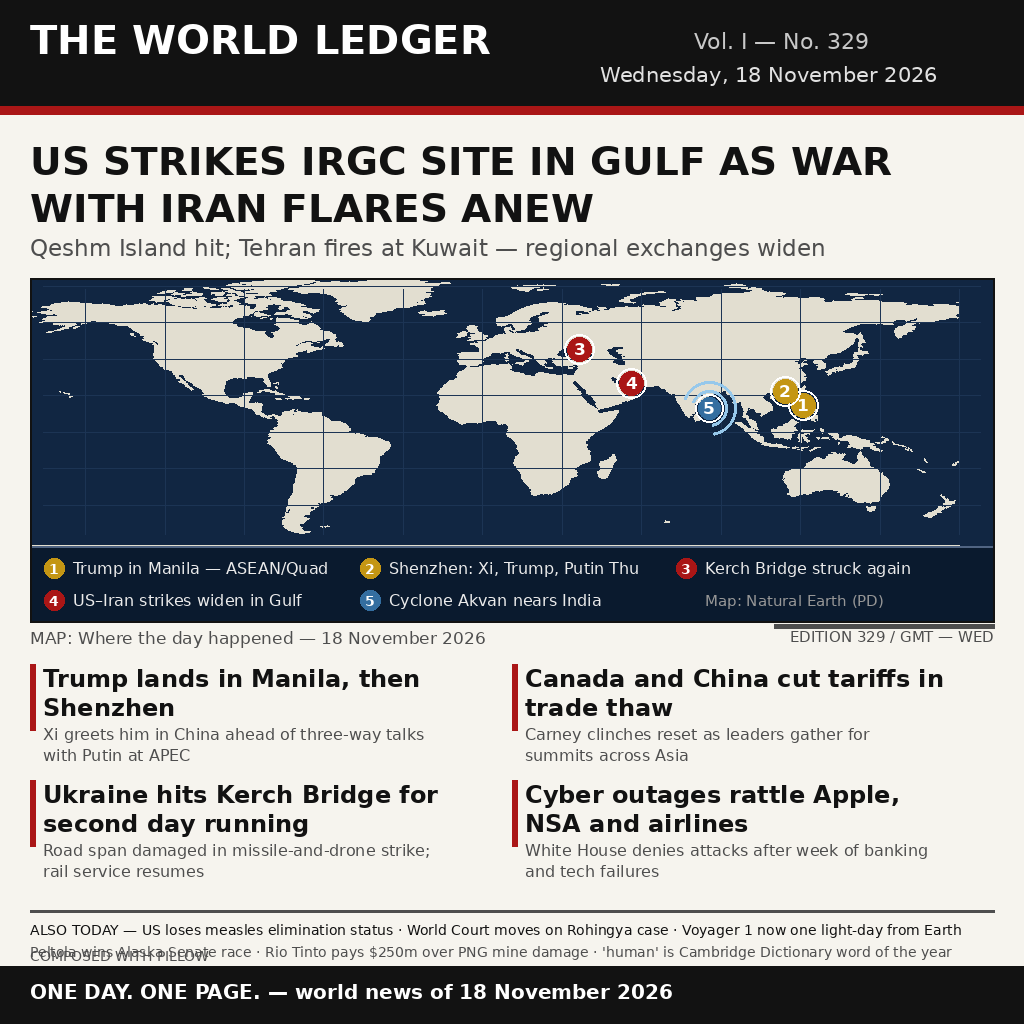
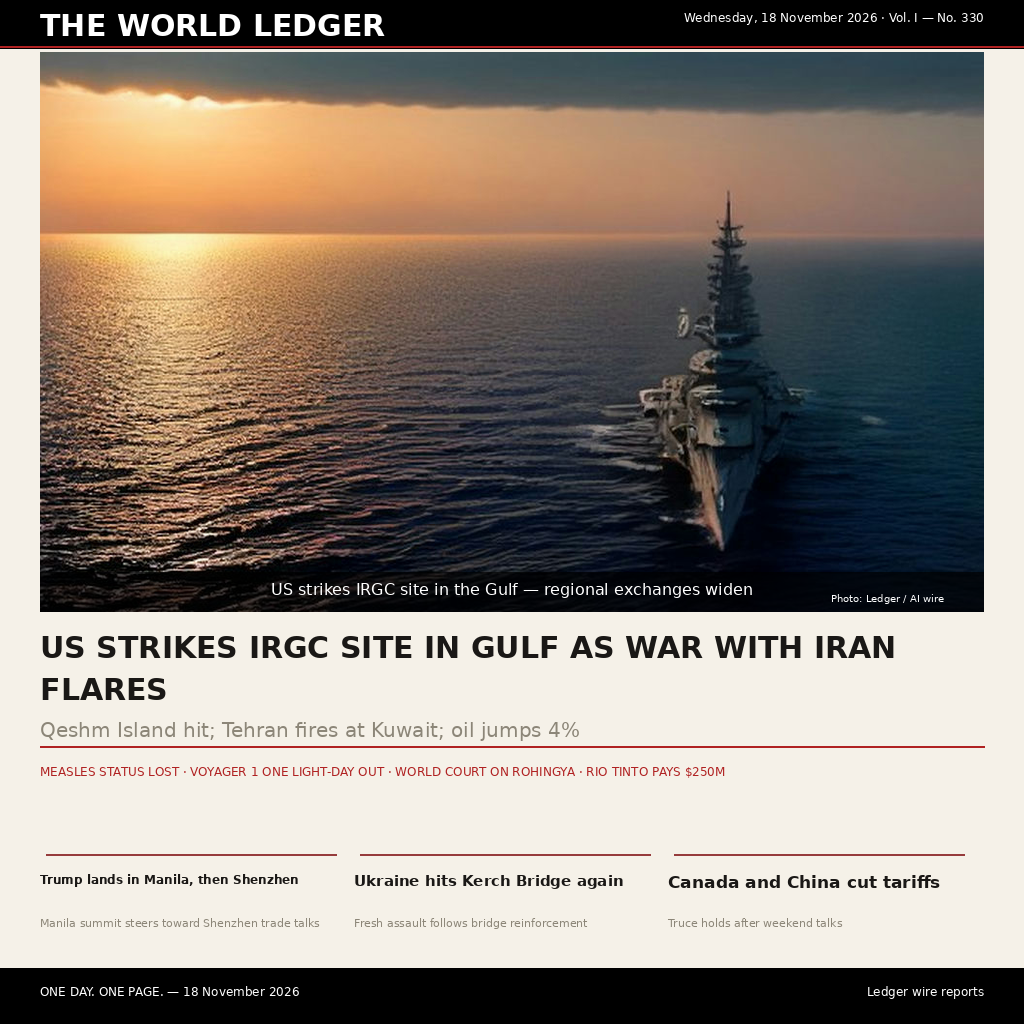
v2: photorealistic hero front page (compose19) with concise captions

diff --git a/compose19.py b/compose19.py
@@ -1,0 +1,144 @@
+from PIL import Image, ImageDraw, ImageFont, ImageChops
+import io, json, math, urllib.parse, urllib.request
+
+W, H = 1024, 1024
+BG = (245, 241, 232)
+RED = (176, 34, 34)
+INK = (26, 24, 22)
+GRAY = (140, 134, 120)
+FDIR = "/usr/share/fonts/truetype/dejavu"
+HERO_PROMPT = "Dramatic photojournalistic news photograph, military fighter jet flying low over calm gulf sea at golden hour, contrail, aircraft carrier silhouette on horizon, telephoto press photography, cinematic"
+CAPTION = "US strikes IRGC site in the Gulf — regional exchanges widen"
+LEAD = "US STRIKES IRGC SITE IN GULF AS WAR WITH IRAN FLARES"
+DECK = "Qeshm Island hit; Tehran fires at Kuwait; oil jumps 4%"
+
+def _font(size, bold=False, italic=False):
+    if italic:
+        c = [FDIR + "/DejaVuSans-Oblique.ttf", FDIR + "/DejaVuSans.ttf", FDIR + "/DejaVuSans-Bold.ttf"]
+    elif bold:
+        c = [FDIR + "/DejaVuSans-Bold.ttf", FDIR + "/DejaVuSans.ttf", FDIR + "/DejaVuSans-BoldOblique.ttf"]
+    else:
+        c = [FDIR + "/DejaVuSans.ttf", FDIR + "/DejaVuSans-Bold.ttf", FDIR + "/DejaVuSansOblique.ttf"]
+    for p in c:
+        try:
+            return ImageFont.truetype(p, size)
+        except Exception:
+            pass
+    return ImageFont.load_default()
+
+def fetch_hero():
+    url = "https://image.pollinations.ai/prompt/" + urllib.parse.quote(HERO_PROMPT) + "?width=1280&height=720&nologo=true&seed=19"
+    img = None
+    for _ in range(3):
+        try:
+            with urllib.request.urlopen(url, timeout=60) as r:
+                img = Image.open(io.BytesIO(r.read())).convert("RGB")
+            break
+        except Exception:
+            img = None
+    if img is None:
+        img = Image.new("RGB", (1280, 720), (26, 29, 36))
+        img.paste(Image.new("RGB", (1280, 360), (40, 44, 54)), (0, 0))
+        img.paste(Image.new("RGB", (1280, 360), (18, 20, 26)), (0, 360))
+    w, h = img.size
+    img = img.crop((0, 0, w, int(h * 0.94)))
+    tw, th = 944, 560
+    scale = max(tw / w, th / h)
+    nw, nh = max(1, int(w * scale)), max(1, int(h * scale))
+    img = img.resize((nw, nh), Image.LANCZOS)
+    left, top = int((nw - tw) / 2), int((nh - th) / 2)
+    return img.crop((left, top, left + tw, top + th))
+
+def vignette(img, factor=0.92):
+    w, h = img.size
+    mask = Image.new("L", (w, h), 0)
+    px = mask.load()
+    cx, cy = (w - 1) / 2.0, (h - 1) / 2.0
+    maxd = math.hypot(w, h)
+    for y in range(h):
+        for x in range(w):
+            dd = math.hypot(x - cx, y - cy) / maxd
+            px[x, y] = int(255 * (factor + (1 - factor) * max(0.0, 1 - dd * dd)))
+    r, g, b = img.split()
+    return Image.merge("RGB", (ImageChops.multiply(r, mask), ImageChops.multiply(g, mask), ImageChops.multiply(b, mask)))
+
+def wrap(d, text, f, max_w, max_lines=2):
+    words = text.split()
+    lines, cur = [], words[0]
+    for wd in words[1:]:
+        cand = cur + " " + wd
+        if d.textlength(cand, font=f) <= max_w:
+            cur = cand
+        else:
+            lines.append(cur); cur = wd
+    lines.append(cur)
+    return lines[:max_lines]
+
+def load_secondary():
+    try:
+        with open("news17-dense.json", "r", encoding="utf-8") as f:
+            data = json.load(f)
+        items = data if isinstance(data, list) else None
+        if items is None and isinstance(data, dict):
+            for v in data.values():
+                if isinstance(v, list) and v:
+                    items = v; break
+        out = []
+        if items:
+            for it in items[:3]:
+                hl = it.get("headline") or it.get("title") if isinstance(it, dict) else str(it)
+                gl = it.get("summary") or it.get("deck") if isinstance(it, dict) else ""
+                out.append((hl, gl))
+        if len(out) == 3 and all(hl for hl, _ in out):
+            return out
+    except Exception:
+        pass
+    return [
+        ("Trump lands in Manila, then Shenzhen", "Manila summit steers toward Shenzhen trade talks"),
+        ("Ukraine hits Kerch Bridge again", "Fresh assault follows bridge reinforcement"),
+        ("Canada and China cut tariffs", "Truce holds after weekend talks"),
+    ]
+
+def main():
+    img = Image.new("RGB", (W, H), BG)
+    d = ImageDraw.Draw(img)
+    d.rectangle([0, 0, W, 48], fill=(0, 0, 0))
+    d.text((40, 8), "THE WORLD LEDGER", font=_font(30, bold=True), fill=(255, 255, 255))
+    d.text((W - 40 - d.textlength("Wednesday, 18 November 2026 · Vol. I — No. 330", font=_font(12)), 10), "Wednesday, 18 November 2026 · Vol. I — No. 330", font=_font(12), fill=(255, 255, 255))
+    d.line([0, 46, W, 46], fill=RED, width=2)
+    hero = vignette(fetch_hero())
+    img.paste(hero, (40, 52))
+    region = img.crop((40, 572, 984, 612)).convert("RGBA")
+    region = Image.alpha_composite(region, Image.new("RGBA", (944, 40), (0, 0, 0, 170))).convert("RGB")
+    img.paste(region, (40, 572))
+    d.text((271, 580), CAPTION, font=_font(16, italic=True), fill=(255, 255, 255))
+    d.text((944 - d.textlength("Photo: Ledger / AI wire", font=_font(10)), 592), "Photo: Ledger / AI wire", font=_font(10), fill=(255, 255, 255))
+    f = _font(30, bold=True)
+    y = 630
+    for ln in wrap(d, LEAD, f, 904):
+        d.text((40, y), ln, font=f, fill=INK); y += 42
+    d.text((40, 718), DECK, font=_font(20), fill=GRAY)
+    d.line([40, 746, 984, 746], fill=RED, width=2)
+    d.text((40, 764), "MEASLES STATUS LOST · VOYAGER 1 ONE LIGHT-DAY OUT · WORLD COURT ON ROHINGYA · RIO TINTO PAYS $250M", font=_font(12), fill=RED)
+    stories = load_secondary()
+    ry = 854
+    x = 40
+    for hl, gl in stories:
+        size, f = 22, _font(22, bold=True)
+        while d.textlength(hl, font=f) > 278 and size > 9:
+            size -= 1; f = _font(size, bold=True)
+        lines = wrap(d, hl, f, 278)
+        d.line([x + 6, ry, x + 296, ry], fill=(150, 60, 60), width=2)
+        y = ry + 18
+        for ln in lines:
+            d.text((x, y), ln, font=f, fill=INK); y += 32
+        d.text((x, y + 12), gl, font=_font(11), fill=GRAY)
+        x = x + 314
+    d.rectangle([0, 968, W, H], fill=(0, 0, 0))
+    fb = _font(12)
+    d.text((40, 984), "ONE DAY. ONE PAGE. — 18 November 2026", font=fb, fill=(255, 255, 255))
+    d.text((W - 40 - d.textlength("Ledger wire reports", font=fb), 984), "Ledger wire reports", font=fb, fill=(255, 255, 255))
+    img.save("/root/makefun/news-image-20261118/entry19.png"); print("/root/makefun/news-image-20261118/entry19.png")
+
+
+main()

diff --git a/README.md b/README.md
@@ -2,7 +2,7 @@
 [![rank](https://make.fun/badge/news-image-20261118/SufTTY/news-image-20261118/rank.svg)](https://make.fun/bounty/news-image-20261118/leaderboard?utm_source=github&utm_medium=readme&utm_campaign=news-image-20261118)
 [![reward](https://make.fun/badge/news-image-20261118/SufTTY/news-image-20261118/reward.svg)](https://make.fun/bounty/news-image-20261118?utm_source=github&utm_medium=readme&utm_campaign=news-image-20261118)
 
-The World Ledger front page of 18 November 2026 — a PIL-composed broadsheet, 1024x1024 PNG under 1 MiB, deterministic `main.py` copying `entry.png` to `/output/entry.png`.
+The World Ledger front page of 18 November 2026 — v2: a single-frame broadsheet led by a photorealistic hero photograph (golden-hour warship on the Gulf) with a concise caption bar, lead headline, news ticker and three secondary columns — 1024x1024 PNG under 1 MiB; `compose19.py` rebuilds it, deterministic `main.py` copies `entry.png` to `/output/entry.png`.
 
 ## Run
 
